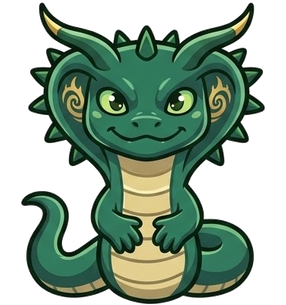
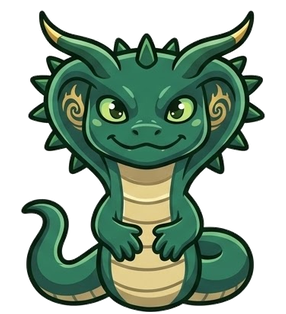
R: re-cut level pictures so the antlers of 8/10/11 are solid (make_dragon_levels v5); handoff NEWEST-89
Claude-Session: https://claude.ai/code/session_01RnXuyAvnZQjJuCErwMC7e1

diff --git a/branding/tools/make_dragon_levels.py b/branding/tools/make_dragon_levels.py
@@ -27,7 +27,8 @@ PICK = [  # stage: (file, cell 1-6)
     ('growth-B-567721.jpg', 3), ('growth-B-567721.jpg', 4), ('growth-B-567721.jpg', 5),
 ]
 CORE_H = 300  # px: the body (outline silhouette) of every stage is scaled to this height
-ANTLER_CLOSE = 4  # closing steps that seal the antler outlines before their inside is filled
+RAW_DARK = 205  # raw mean brightness at or below this = outline / shade, not glow or white
+ANTLER_CLOSE = 9  # closing steps that seal the antler outlines before their inside is filled
 GAP_MIN = 200  # px: closed white gaps at least this big become transparent
 _cache = {}
 
@@ -70,16 +71,24 @@ def stage(file, n, cols=3, rows=2):
     out[..., 3] = np.where(keep, out[..., 3], 0)
     # v4: the antlers (and crown parts) are PALE inside a dark outline, so the white-un-blend made their insides transparent. Close the outline and
     # fill what it encloses in the top part of the dragon with the ORIGINAL pixels, fully opaque.
-    solid = (out[..., 3] > 110) & keep
+    # v5: seal the outline from the RAW pixels too (the antler outline is a thin brown line on a pale glow, the alpha of the faint tips is too low)
+    near = ndi.binary_dilation(keep, iterations=10)
+    rawdark = (raw.mean(axis=2) <= RAW_DARK) & near
+    solid = ((out[..., 3] > 40) & keep) | rawdark
     cys = np.nonzero(kc.any(axis=1))[0]
     zone = np.zeros_like(solid)
     zone[: cys.min() + int(0.38 * (cys.max() - cys.min())) + 1] = True
     closed = ndi.binary_closing(solid, structure=np.ones((3, 3)), iterations=ANTLER_CLOSE)
-    filled = ndi.binary_fill_holes(closed) & ~solid & zone
+    filled = (ndi.binary_fill_holes(closed) | closed) & ~solid & zone
     white_bg = (raw.min(axis=2) >= 250) & ((raw.max(axis=2) - raw.min(axis=2)) < 6)
-    fill = filled & ~white_bg
+    fill = (filled & ndi.binary_dilation(solid, iterations=5)) | (rawdark & zone)
     out[..., :3] = np.where(fill[..., None], raw.astype(np.uint8), out[..., :3])
     out[..., 3] = np.where(fill, 255, out[..., 3])
+    # v5: drop loose bits (stars above the crown, specks): keep only what touches the body core
+    vis2 = out[..., 3] > 8
+    lab2, n2 = ndi.label(ndi.binary_dilation(vis2, iterations=2))
+    ok = np.unique(lab2[ndi.binary_dilation(kc, iterations=3) & (lab2 > 0)])
+    out[..., 3] = np.where(np.isin(lab2, ok[ok > 0]) & vis2, out[..., 3], 0)
     ys, xs = np.nonzero(out[..., 3] > 8)
     y0, y1, x0, x1 = ys.min(), ys.max() + 1, xs.min(), xs.max() + 1
     return out[y0:y1, x0:x1], kc[y0:y1, x0:x1]

diff --git a/YOKAI_HANDOFF.md b/YOKAI_HANDOFF.md
@@ -16,6 +16,8 @@ Last updated: 2026-11-23 (see NEWEST-82).
 - Anything the owner sends (images, ideas) is recorded in the repo first, then used. Phrases the mascots say are my drafts, NOT approved.
 - Never write down or use the GitHub tokens he pasted in chat earlier; if access is lost, ask him.
 
+## NEWEST-89 (24 Nov 22:25): ANTLERS of levels 8/10/11 re-cut (owner: "horns cut"). The v4 fill (NEWEST-76) only worked where the outline was closed; the antler outline is a thin brown line on pale glow, so the pale insides stayed transparent (hollow antlers on dark bg). `make_dragon_levels.py` v5: antler pixels are found from the RAW sheet by MEAN brightness <= 205 (`RAW_DARK`, glow is ~227) within 10 px of the kept body, made opaque with their original colours, plus the closed/filled inside (`ANTLER_CLOSE`=9, limited to 5 px around the outline to avoid webbing); loose bits not touching the body are dropped. All 12 `r_lv_*` re-cut (canvas is now 286x314), checked on dark AND white: antlers solid. Known small flaws: faint stars/specks may remain above the crown of stage 11; none of this touches the "no glow" rule. Built on request right after (see the newest build id in the chat).
+
 ## NEWEST-88 (24 Nov 22:00): build 45472997499 (`7d59a94`) FAILED: `StatsController.showAchievements` used `android.widget.ViewGroup` (does not exist; it is `android.view.ViewGroup`). Fixed (one word). Earlier builds f8526e6 green; the egg/badges/favourites code compiled up to that point.
 
 ## NEWEST-87 (24 Nov 22:10): HUB RESTRUCTURE (owner; code, NOT compiled, NOT built). Tabs now: الملف الشخصي | الإحصائيات | الإنجازات | مستوى التنين (`RHubTabs`: PROFILE 0, STATS 1, ACH 2, LEVEL 3, DRESS 4 = inner switch only). OUTFITS merged INTO the dragon-level screen: inner toggle "المستوى | الأزياء" under the tabs (`RDragonLevelController`). "الإنجازات" is its own tab in `StatsController` (`showAchievements`: hides the other children of the scroll box, remembering which were visible, shows container `rAch`): weekly chest, badges, records. Badges rebuilt (`RProfileExtras.badgesCard/badgeCell`): overall progress bar, collect-all, FILTER by type (الكل | شباتر | ساعات | سلسلة | جاهز), one section per type with its own count, tier icons always shown (locked = grey + faded + progress n/target). Profile keeps header card, calendar, favourites, share. Owner said the old badge list "was not nice, improve a lot": more polish possible (spacing, rarity glow) after he sees it. Build 45472147835 (`e632e78`) does NOT contain this.
